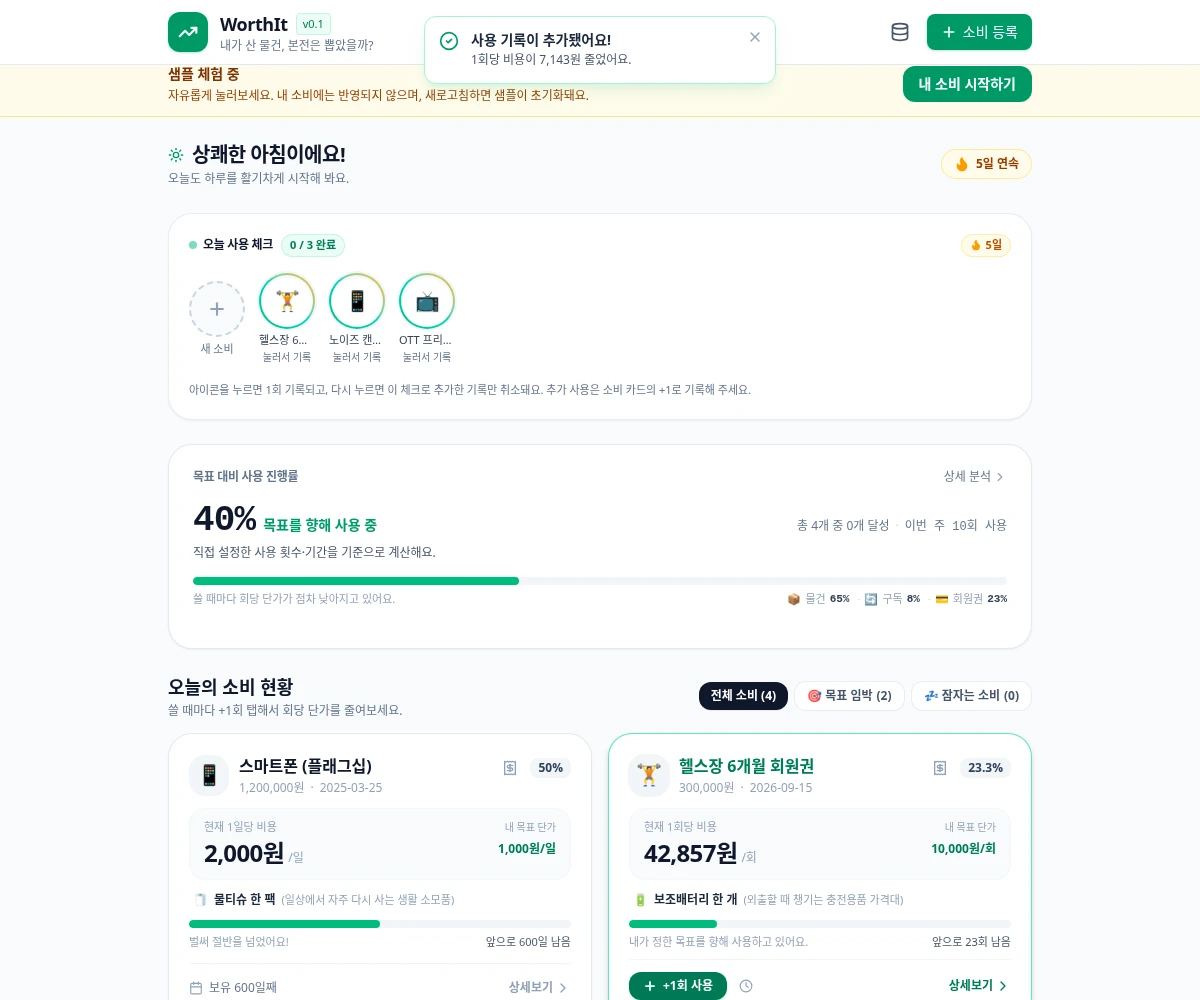
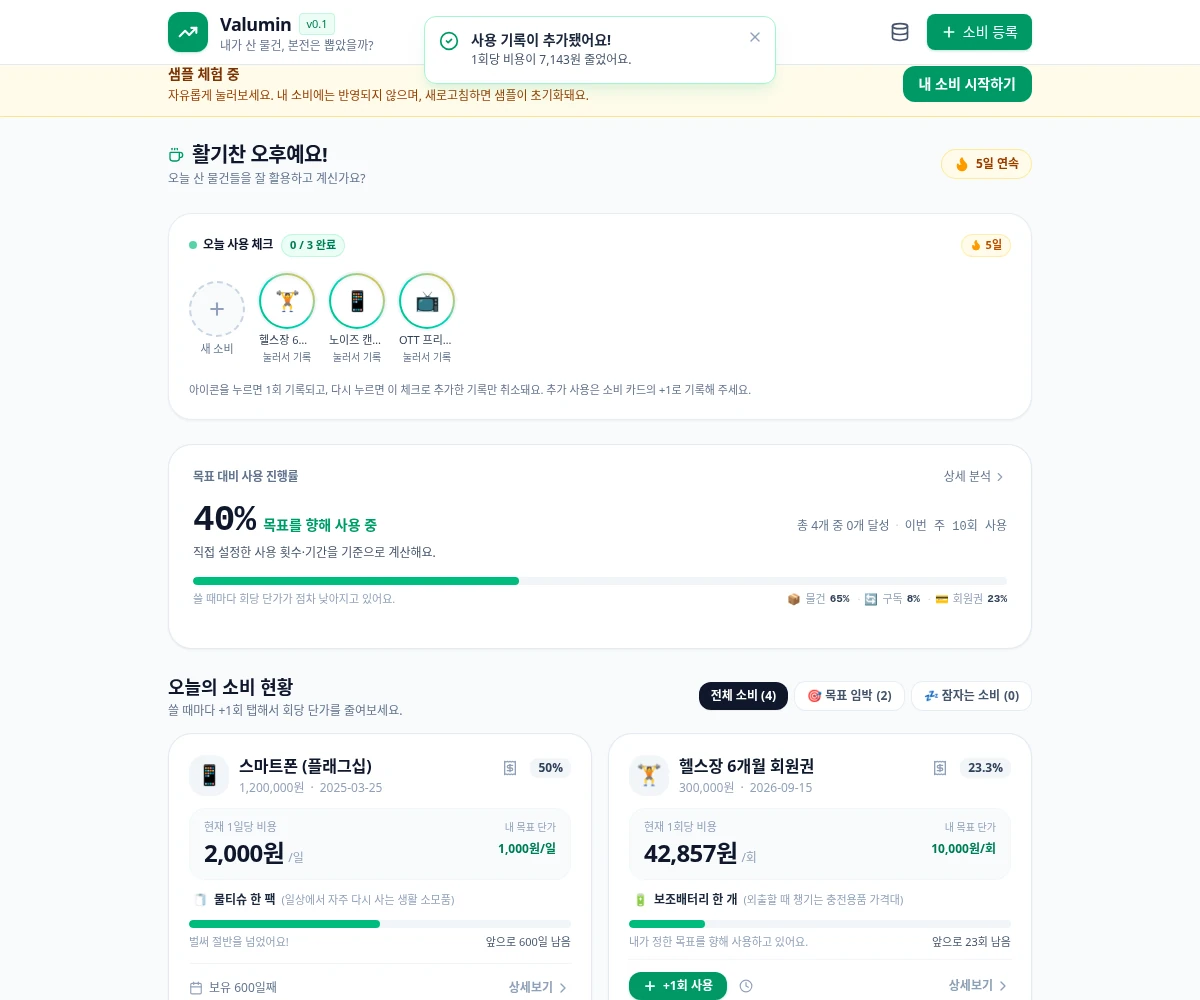
Valumin 실제 화면 갱신과 기존 데이터 호환 검증 반영

diff --git a/src/data/projectCaseStudies.ts b/src/data/projectCaseStudies.ts
@@ -25,7 +25,7 @@ const minoffiaSource =
 const miniallySource =
   "https://github.com/minho-nim/minially/blob/9f43f240917470f5cce37101f482b5bc68a455a4/";
 const valuminSource =
-  "https://github.com/minho-nim/Valumin/blob/d4b36093bb3d23f13d5b796e55ada70d055606b1/";
+  "https://github.com/minho-nim/Valumin/blob/822c28b422867aa0f08ed3d05f0a2a4c4c354950/";
 export const projectCaseStudies: Record<string, ProjectCaseStudy> = {
   "proj-crossroads-ai-verdict": {
     audience:
@@ -191,9 +191,9 @@ export const projectCaseStudies: Record<string, ProjectCaseStudy> = {
     implementation:
       "소비 등록·사용 기록·사용 단가·목표 비교·백업이 구현돼 있습니다. 샘플 체험은 메모리에서 동작하고 실제 저장소와 분리됩니다. 계정이나 기기 간 자동 동기화는 없습니다.",
     verification:
-      "2026-11-14 원본 앱의 체험 모드를 실행해 등록 양식, 사용 횟수 추가와 항목 상세를 확인했습니다. 캡처에는 원본 앱의 이전 명칭 WorthIt이 그대로 남아 있습니다. 이 이름을 이미지에서 덮어쓰지 않았습니다.",
+      "2026-11-14 Valumin으로 이름을 정리한 실제 빌드에서 등록 양식·사용 횟수 추가·항목 상세를 확인하고 촬영했습니다. 이전 앱이 내보낸 백업을 복원·재다운로드·새로고침해 기록이 유지되는지 비교했습니다. 영수증 PNG·PDF 다운로드도 확인했습니다.",
     remaining:
-      "Valumin으로의 실제 앱 헤더·설치 안내·내보내기 문구 변경은 원본 저장소에서 처리해야 합니다. 이번에는 실제 기기의 설치·오프라인 실행·모든 계산 경계값을 검증하지 않았습니다.",
+      "이번 등록 화면 촬영은 양식을 여는 단계까지입니다. 새 항목 저장·모든 계산 경계값·실제 기기의 설치 이름 갱신과 오프라인 실행은 추가 확인이 필요합니다. 운영 반영은 별도입니다.",
     process: [
       {
         title: "본전의 기준을 사용자가 정하도록",
@@ -207,6 +207,17 @@ export const projectCaseStudies: Record<string, ProjectCaseStudy> = {
           "기존 개발 기록과 현재 계산·등록 코드를 대조했습니다. 이번에는 예시 항목의 사용 횟수 추가와 상세 표시를 확인했으며 모든 계산식을 새로 검증한 것은 아닙니다.",
         logId: "codex:proj-1792978415000:2026-10-26-worthit-personal-goals",
         sourceUrl: valuminSource + "README.md",
+      },
+      {
+        title: "이름이 바뀌어도 기록을 이어 쓰도록",
+        problem:
+          "앱 이름과 함께 저장 위치나 백업 구조까지 바꾸면 이전 기록이 보이지 않을 수 있습니다.",
+        criterion: "보이는 이름과 데이터를 보관하는 기준을 분리했습니다.",
+        change:
+          "헤더·설치 안내·영수증 이름은 Valumin으로 맞추고 기존 주소·저장 키·설치 ID와 백업 구조는 유지했습니다.",
+        result:
+          "이전 앱이 만든 예시 백업을 수정본에서 읽고 복원·다시 내려받았습니다. 소비·사용 기록·결제 기간이 같았고 새로고침 뒤에도 유지됐습니다. 데모 조작은 개인 저장 데이터에 영향을 주지 않았습니다.",
+        sourceUrl: "https://github.com/minho-nim/Valumin/pull/9",
       },
     ],
     sources: [

diff --git a/src/utils/projectMedia.ts b/src/utils/projectMedia.ts
@@ -231,8 +231,7 @@ export const bundledScreens: Record<string, ResolvedMedia[]> = {
       outcome: "항목마다 다른 사용 기준과 내가 정한 목표를 비교합니다.",
       rationale:
         "구매가만 보지 않고 얼마나 썼는지를 함께 돌아보도록 구성했습니다.",
-      notice:
-        "예시 데이터입니다. 원본 앱 UI에는 이전 명칭 WorthIt이 남아 있습니다.",
+      notice: "실제 저장소와 분리된 예시 데이터 화면입니다.",
       fit: "contain",
     },
     {
@@ -257,8 +256,7 @@ export const bundledScreens: Record<string, ResolvedMedia[]> = {
       outcome: "누적 사용량과 현재 사용 단가가 함께 갱신됩니다.",
       rationale:
         "나중에 한꺼번에 기억해서 적기보다 실제 사용 시점에 간단히 남기게 하려는 흐름입니다.",
-      notice:
-        "실제 저장소와 분리된 샘플 체험입니다. 원본의 WorthIt 표기를 보존했습니다.",
+      notice: "실제 저장소와 분리된 샘플 체험의 사용 기록 화면입니다.",
       fit: "contain",
     },
     {

diff --git a/src/utils/projectCaseStudies.test.ts b/src/utils/projectCaseStudies.test.ts
@@ -46,7 +46,10 @@ test("public Valumin naming changes presentation only and retains historical rec
     parseImportJson(JSON.stringify([p])).projects![0].workLogs[0].title,
     p.workLogs[0].title,
   );
-  assert.ok(bundledScreens[p.id].some((s) => s.notice?.includes("WorthIt")));
+  assert.ok(bundledScreens[p.id].every((s) => !s.notice?.includes("WorthIt")));
+  assert.ok(
+    bundledScreens[p.id].some((s) => s.notice?.includes("예시 데이터")),
+  );
 });
 test("only known default public copy is shortened; custom descriptions and project IDs survive", () => {
   const original = snapshot.find((p) => p.id === "proj-1792485558773")!;

diff --git a/docs/project-content-review.md b/docs/project-content-review.md
@@ -13,7 +13,7 @@ This change improves the existing cream/green/red portfolio. The full-screen ent
 | MINOVA                | `minho-nim/MINOVA` at `26fb0859f01f478ebb6c932475f1bdca3c5d69ef`; README, engine/decision/mobile documents, source and tests | Five genuine captures; one automated engine path to free play, not all branches. ACT III is not implemented.                                                                                                                                                             |
 | Minoffia              | `minho-nim/minoffia` at `d7b3a426c0052320a983cde13ca07d6212b8b0ad`; FLOW, STATUS, README, existing MinLab records            | Existing source-portfolio example captures. No live AI/cloud approval/deployment test in this change.                                                                                                                                                                    |
 | Minially              | `minho-nim/minially` at `9f43f240917470f5cce37101f482b5bc68a455a4`; README, source, existing records                         | Existing example captures. No real account or two-device synchronization test.                                                                                                                                                                                           |
-| Valumin               | `minho-nim/Valumin` at `d4b36093bb3d23f13d5b796e55ada70d055606b1`; README and source                                         | Real built-in demo: registration form opening, sample usage increment, item details. New-item submission and calculation boundaries not fully tested.                                                                                                                    |
+| Valumin               | `minho-nim/Valumin` at `822c28b422867aa0f08ed3d05f0a2a4c4c354950`; README and source                                         | Real built-in demo: registration form opening, sample usage increment, item details. New-item submission and calculation boundaries not fully tested.                                                                                                                    |
 | Work-schedule tool    | This repository's `apps/work-schedule`, import/matching/export code and records                                              | Four actual build captures from CI #38 using synthetic files. Verified file input, matching success/failure, workers, original DOCX and matched-only calendar. No private company documents.                                                                             |
 | MinLab                | Current code, configuration, records and existing tests                                                                      | Public introduction describes project discovery and records rather than a historical GitHub setup task.                                                                                                                                                                  |
 | Other archive entries | Current public README/source information and saved project records                                                           | Short use flows and explicit limits. ChoicePilot uses local rules by default; NutriFit photo AI is not presented as active; MinSnakey CPU play is not called multiplayer; minoom cloud/multiuser and photo reconstruction are not claimed. IntentGap remains a proposal. |
@@ -30,7 +30,7 @@ Image provenance and capture methods: [case-study-sources.md](../public/media/ca
 
 ## Remaining work and external boundaries
 
-- **Valumin app branding:** original app still displays WorthIt. MinLab labels those actual screenshots honestly. Rename the original app header/install/receipt text in the Valumin repository before obtaining fully renamed captures; not part of this PR.
+- **Valumin app branding:** fixed in separate [Valumin PR #9](https://github.com/minho-nim/Valumin/pull/9). Four actual captures from its build replace the old WorthIt UI; no screenshot text was overpainted. Legacy backup import/export/reload, demo isolation and PNG/PDF downloads were checked separately. Both PRs remain unmerged; production branding may still differ until an authorized release. Real installed-device name refresh/offline use is still unverified.
 - **Work-schedule validation:** the earlier screenshot gap is resolved with four real captures from [CI #38](https://github.com/minho-nim/MinLab/actions/runs/43600686913). Real company template variations, company-system import and original-app mobile usability remain unverified. The export feature keeps an explicit missing-screen state rather than reusing another feature’s screenshot. Existing export unit tests do not substitute for a new browser export/real company import test.
 - **MINOVA launch URL:** current administrator/default configuration links to the separate MINOVA deployment, while its README also documents MinLab's bundled `/apps/crossroads/`. Public hosting availability was not verified in this environment; this change does not overwrite saved/custom launch URLs or claim them healthy.
 - Real iOS/Android interaction, cloud accounts, Minoffia AI execution, Minially multi-device synchronization, all MINOVA branches and original-app offline behavior remain outside this validation.

diff --git a/public/media/case-study-sources.md b/public/media/case-study-sources.md
@@ -16,9 +16,18 @@ The captures show the app, not a reconstructed MinLab mockup. The introductory f
 
 ## Valumin
 
-Source: `minho-nim/Valumin` at `d4b36093bb3d23f13d5b796e55ada70d055606b1`, inspected 2026-11-14.
+Source: `minho-nim/Valumin` at `822c28b422867aa0f08ed3d05f0a2a4c4c354950`, captured 2026-11-14. This is the actual production build of [Valumin PR #9](https://github.com/minho-nim/Valumin/pull/9), not a claim that the production deployment has already changed.
 
-`valumin-overview.webp`, `valumin-register.webp`, `valumin-usage.webp`, `valumin-detail.webp` show the source app at `/worthit/?mode=demo`, using its built-in sample data. The source still renders **WorthIt** in the header and other areas. That historical name was not removed from the screenshots. MinLab calls the project **Valumin** and labels the discrepancy. Original-repository changes are required to rename the actual app UI. The captures verify opening the registration form, adding a sample use and viewing an item's details; they do not prove submission of a new item or all calculation boundaries.
+`valumin-overview.webp`, `valumin-register.webp`, `valumin-usage.webp`, `valumin-detail.webp` show the source app at `/worthit/?mode=demo`, using its built-in sample data. The actual app now renders Valumin in this reviewed source. PNG screenshots at 1200×1000 were encoded as WebP without painting or replacing text. The captures verify opening the registration form, adding a sample use and viewing item details; they do not prove submitting a new item or every calculation boundary.
+
+Separate checks used an actual backup exported by the prior app at `d4b36093bb3d23f13d5b796e55ada70d055606b1`. Import, restore, export and reload preserved its item/usage/billing arrays. Demo actions left personal storage unchanged. Actual PNG and PDF receipt downloads used Valumin filenames, and the PDF Creator was Valumin. Header/title/install guide/manifest, empty data and invalid backup states were checked at 400/1400px. Real installed iOS/Android name refresh, offline reentry and OS clipboard/sharing were not tested. Legacy storage keys, PWA identity, `/worthit/` URL and JSON version remain unchanged.
+
+| File                  | SHA-256                                                          |
+| --------------------- | ---------------------------------------------------------------- |
+| valumin-overview.webp | 474325d252072e4623ad6c5b76f82ad5f76aeaf3eedc74ffb5d5fcbd487ff248 |
+| valumin-register.webp | c9a18027b10544fd8461769a22a9d3418c5beaae5b6695d6de670507c02d37fe |
+| valumin-usage.webp    | 91248282ce0d43492e18e36dfc7027a9465314adbac199dd21a0bd22beedc89c |
+| valumin-detail.webp   | 1677ec3f1ac030b9759301cac5661bb16d430c902afed6c7186d775127b3fb73 |
 
 ## Existing Minoffia and Minially captures
 
